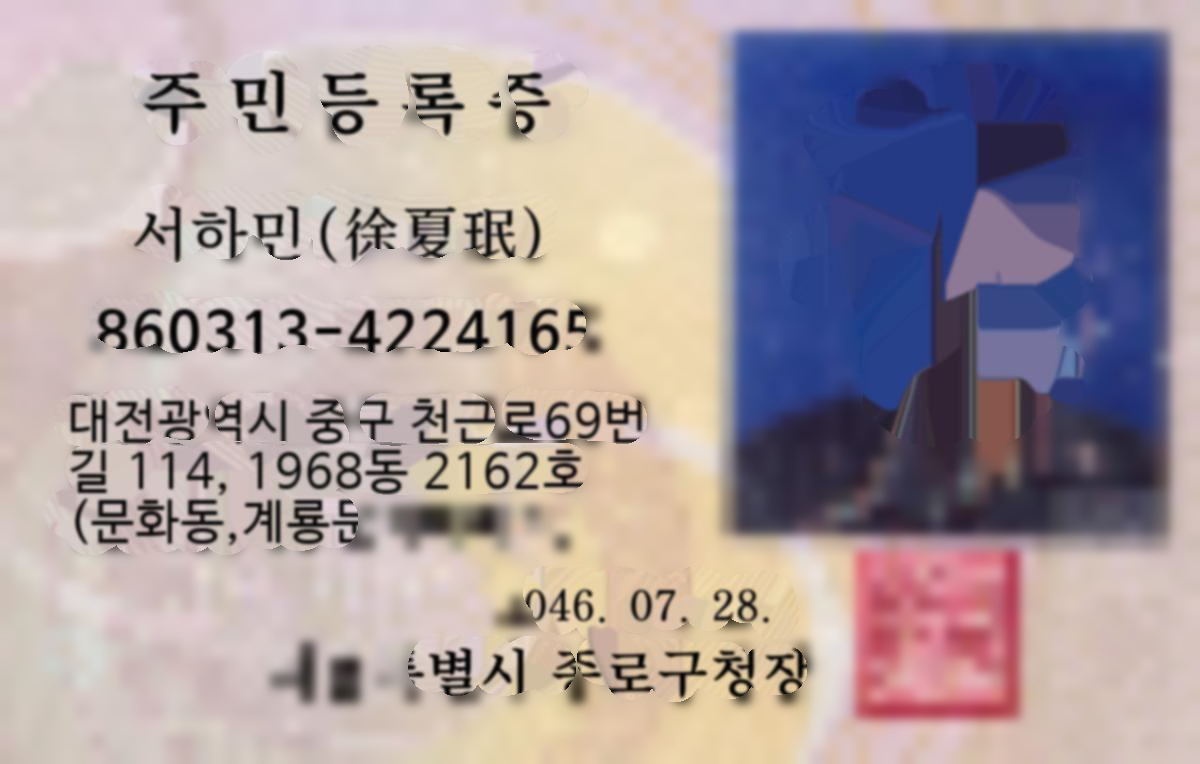
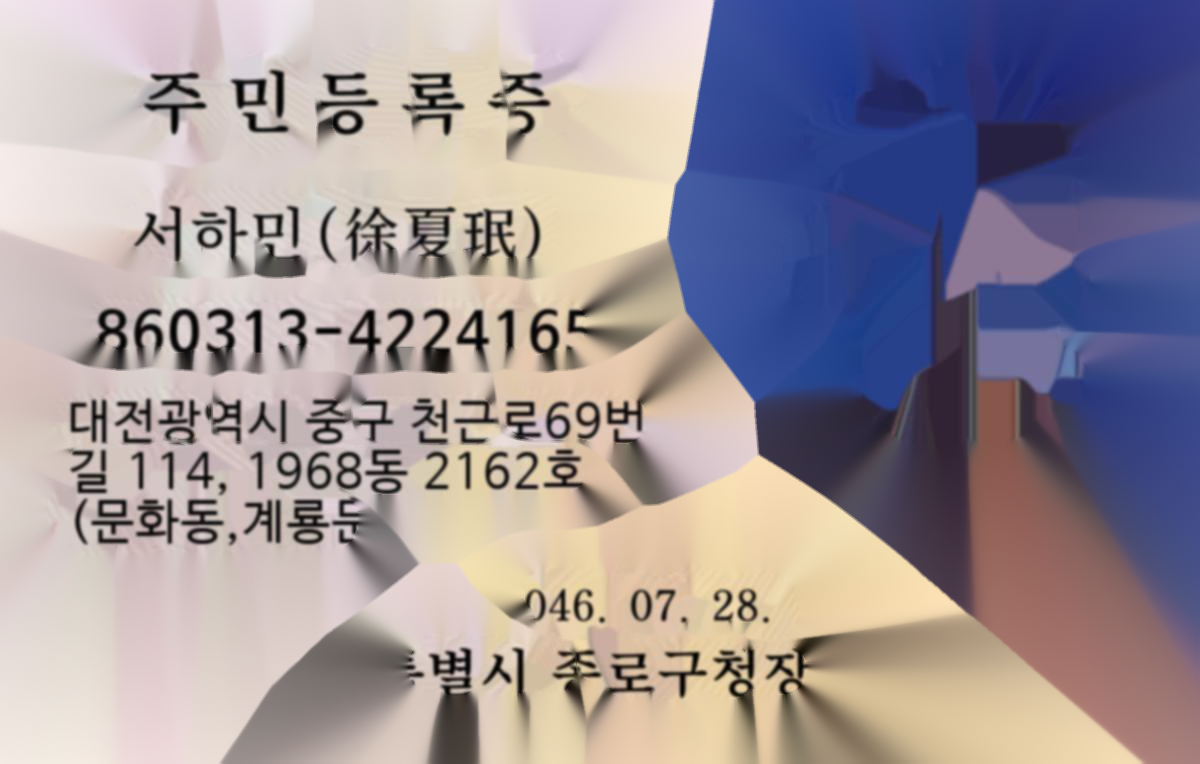
update

diff --git a/app/models/generate_idcard_template.py b/app/models/generate_idcard_template.py
@@ -1,59 +1,163 @@
 import os
 import cv2
 import numpy as np
-from pyinpaint import Inpaint
+import logging
+from typing import Tuple, Optional
+from pathlib import Path
+
+# 로깅 설정
+logging.basicConfig(level=logging.INFO)
+logger = logging.getLogger(__name__)
 
 class IDCardTemplateGenerator:
-    def generate_template(self, original_path, mask_path, output_path):
-        """신분증 템플릿 생성"""
+    def __init__(self, inpaint_radius: int = 3, inpaint_method: str = 'telea'):
+        """
+        신분증 템플릿 생성기 초기화
+        
+        Args:
+            inpaint_radius: 인페인팅 반경
+            inpaint_method: 인페인팅 방법 ('telea' 또는 'ns')
+        """
+        self.inpaint_radius = inpaint_radius
+        self.inpaint_method = inpaint_method
+        self.inpaint_flag = cv2.INPAINT_TELEA if inpaint_method == 'telea' else cv2.INPAINT_NS
+        
+    def generate_template(self, original_path: str, mask_path: str, output_path: str) -> np.ndarray:
+        """
+        신분증 템플릿 생성
+        
+        Args:
+            original_path: 원본 이미지 경로
+            mask_path: 마스크 이미지 경로
+            output_path: 출력 이미지 경로
+            
+        Returns:
+            생성된 템플릿 이미지 (numpy array)
+        """
         try:
-            print(f"✅ 처리 시작...")
-            print(f"원본 이미지: {original_path}")
-            print(f"마스크 이미지: {mask_path}")
+            logger.info(f"템플릿 생성 시작...")
+            logger.info(f"원본 이미지: {original_path}")
+            logger.info(f"마스크 이미지: {mask_path}")
             
-            # 1. 이미지 로드 및 전처리
-            original_img = cv2.imread(original_path)
-            mask_img = cv2.imread(mask_path, cv2.IMREAD_GRAYSCALE)  # 그레이스케일로 로드
+            # 파일 존재 확인
+            self._validate_input_files(original_path, mask_path)
             
-            if original_img is None or mask_img is None:
-                raise FileNotFoundError("❌ 이미지 로드 실패")
+            # 이미지 로드 및 전처리
+            original = self._load_and_preprocess_image(original_path)
+            mask = self._load_and_preprocess_mask(mask_path)
             
-            # 채널 수 확인 및 조정
-            if original_img.shape[2] == 4:  # RGBA 이미지인 경우
-                original_img = cv2.cvtColor(original_img, cv2.COLOR_BGRA2BGR)
+            # 이미지 크기 일치 확인
+            original, mask = self._ensure_same_size(original, mask)
             
-            # 임시 파일로 저장
-            temp_original = "temp_original.png"
-            temp_mask = "temp_mask.png"
+            # 인페인팅 수행
+            result = self._perform_inpainting(original, mask)
             
-            cv2.imwrite(temp_original, original_img)
-            cv2.imwrite(temp_mask, mask_img)
+            # 결과 저장
+            self._save_result(result, output_path)
             
-            # 2. Inpainting 수행
-            inpainter = Inpaint(temp_original, temp_mask)
-            inpainted_img = inpainter()
-            print("✅ Inpainting 완료")
-            
-            # 3. 결과 이미지 후처리
-            result_img = inpainted_img * 255.0
-            result_img = result_img.astype('uint8')
-            result_img = cv2.cvtColor(result_img, cv2.COLOR_BGR2RGB)
-            
-            # 4. 결과 저장
-            cv2.imwrite(output_path, result_img)
-            print(f"✅ 결과 저장 완료: {output_path}")
-            
-            # 5. 임시 파일 삭제
-            os.remove(temp_original)
-            os.remove(temp_mask)
-            
-            return result_img
+            logger.info("✅ 템플릿 생성 완료!")
+            return result
             
         except Exception as e:
-            print(f"❌ 에러 발생: {str(e)}")
-            # 임시 파일 정리
-            if os.path.exists("temp_original.png"):
-                os.remove("temp_original.png")
-            if os.path.exists("temp_mask.png"):
-                os.remove("temp_mask.png")
-            raise 
+            logger.error(f"❌ 템플릿 생성 중 오류 발생: {str(e)}")
+            raise
+    
+    def _validate_input_files(self, original_path: str, mask_path: str) -> None:
+        """입력 파일들의 유효성 검증"""
+        if not Path(original_path).exists():
+            raise FileNotFoundError(f"원본 이미지를 찾을 수 없습니다: {original_path}")
+        if not Path(mask_path).exists():
+            raise FileNotFoundError(f"마스크 이미지를 찾을 수 없습니다: {mask_path}")
+    
+    def _load_and_preprocess_image(self, image_path: str) -> np.ndarray:
+        """원본 이미지 로드 및 전처리"""
+        image = cv2.imread(image_path, cv2.IMREAD_UNCHANGED)
+        if image is None:
+            raise ValueError(f"이미지를 로드할 수 없습니다: {image_path}")
+        
+        logger.info(f"원본 이미지 크기: {image.shape}")
+        
+        # RGBA -> RGB 변환
+        if len(image.shape) == 3 and image.shape[2] == 4:
+            logger.info("RGBA -> RGB 변환 중...")
+            image = cv2.cvtColor(image, cv2.COLOR_RGBA2RGB)
+        
+        return image
+    
+    def _load_and_preprocess_mask(self, mask_path: str) -> np.ndarray:
+        """마스크 이미지 로드 및 전처리"""
+        mask = cv2.imread(mask_path)
+        if mask is None:
+            raise ValueError(f"마스크 이미지를 로드할 수 없습니다: {mask_path}")
+        
+        logger.info(f"마스크 이미지 크기: {mask.shape}")
+        
+        # 그레이스케일 변환
+        if len(mask.shape) == 3:
+            logger.info("마스크를 그레이스케일로 변환 중...")
+            mask = cv2.cvtColor(mask, cv2.COLOR_BGR2GRAY)
+        
+        return mask
+    
+    def _ensure_same_size(self, original: np.ndarray, mask: np.ndarray) -> Tuple[np.ndarray, np.ndarray]:
+        """원본과 마스크 이미지 크기 일치"""
+        if original.shape[:2] != mask.shape[:2]:
+            logger.warning("이미지와 마스크 크기가 다릅니다. 마스크를 원본 크기로 조정합니다.")
+            mask = cv2.resize(mask, (original.shape[1], original.shape[0]))
+        
+        return original, mask
+    
+    def _perform_inpainting(self, original: np.ndarray, mask: np.ndarray) -> np.ndarray:
+        """인페인팅 수행"""
+        logger.info(f"인페인팅 시작 (방법: {self.inpaint_method}, 반경: {self.inpaint_radius})")
+        
+        # 마스크 이진화
+        _, binary_mask = cv2.threshold(mask, 127, 255, cv2.THRESH_BINARY)
+        
+        # 인페인팅 수행
+        result = cv2.inpaint(original, binary_mask, self.inpaint_radius, self.inpaint_flag)
+        
+        return result
+    
+    def _save_result(self, result: np.ndarray, output_path: str) -> None:
+        """결과 이미지 저장"""
+        # 출력 디렉토리 생성
+        output_dir = Path(output_path).parent
+        output_dir.mkdir(parents=True, exist_ok=True)
+        
+        # 이미지 저장
+        success = cv2.imwrite(output_path, result)
+        if not success:
+            raise RuntimeError(f"결과 이미지 저장 실패: {output_path}")
+        
+        logger.info(f"✅ 결과 저장 완료: {output_path}")
+    
+    def get_inpainting_quality_score(self, original: np.ndarray, result: np.ndarray, mask: np.ndarray) -> float:
+        """인페인팅 품질 점수 계산 (0-1 사이)"""
+        try:
+            # 마스크 영역에서의 원본과 결과 차이 계산
+            mask_area = mask > 127
+            
+            if not np.any(mask_area):
+                return 1.0  # 마스크가 없으면 완벽한 점수
+            
+            # 구조적 유사성 지수 계산 (간단한 버전)
+            original_masked = original[mask_area]
+            result_masked = result[mask_area]
+            
+            # 표준편차 기반 품질 점수
+            std_original = np.std(original_masked)
+            std_result = np.std(result_masked)
+            
+            # 0-1 사이로 정규화
+            quality_score = min(1.0, std_result / (std_original + 1e-8))
+            
+            return quality_score
+            
+        except Exception as e:
+            logger.warning(f"품질 점수 계산 중 오류: {str(e)}")
+            return 0.5  # 기본값 반환
+
+    def visualize_results(self, original, mask, result):
+        # 결과 시각화 코드는 그대로 유지
+        pass 

diff --git a/app/inpaint_demo.py b/app/inpaint_demo.py
@@ -1,0 +1,78 @@
+import os
+import cv2
+import numpy as np
+from pyinpaint import Inpaint
+
+# 현재 디렉토리 기준 상대 경로 설정
+current_dir = os.path.dirname(os.path.abspath(__file__))
+data_dir = os.path.join(current_dir, 'dataset')
+
+# 원본 신분증 이미지
+img_path = os.path.join(data_dir, 'idcard_original.png')
+# 마스킹 신분증 이미지
+mask_path = os.path.join(data_dir, 'idcard_mask.png')
+
+# 출력 파일 경로
+output_dir = os.path.join(current_dir, 'output')
+os.makedirs(output_dir, exist_ok=True)  # 출력 디렉토리가 없으면 생성
+output_path = os.path.join(output_dir, 'idcard_template.png')
+
+# 이미지 로드 및 채널 확인
+img = cv2.imread(img_path)
+mask_img = cv2.imread(mask_path)
+
+print(f"원본 이미지 경로: {img_path}")
+print(f"마스크 이미지 경로: {mask_path}")
+
+# 채널 수 확인 및 조정
+if img is None:
+    print(f"❌ 오류: 원본 이미지를 로드할 수 없습니다: {img_path}")
+    exit(1)
+if mask_img is None:
+    print(f"❌ 오류: 마스크 이미지를 로드할 수 없습니다: {mask_path}")
+    exit(1)
+
+print(f"원본 이미지 형태: {img.shape}")
+print(f"마스크 이미지 형태: {mask_img.shape}")
+
+# 마스크 이미지가 3채널인 경우 1채널(그레이스케일)로 변환
+if len(mask_img.shape) == 3 and mask_img.shape[2] == 3:
+    print("마스크 이미지를 RGB에서 그레이스케일로 변환합니다.")
+    mask_img = cv2.cvtColor(mask_img, cv2.COLOR_BGR2GRAY)
+    # 변환된 마스크 임시 저장
+    temp_mask_path = os.path.join(data_dir, 'idcard_mask_temp.png')
+    cv2.imwrite(temp_mask_path, mask_img)
+    mask_path = temp_mask_path
+
+try:
+    # Inpainting 수행
+    print("인페인팅 처리 중...")
+    inpaint = Inpaint(img_path, mask_path)
+    inpainted_img = inpaint()
+    
+    # 결과 이미지 처리
+    result_img = inpainted_img * 255.0
+    result_img = result_img.astype('uint8')
+    result_img = cv2.cvtColor(result_img, cv2.COLOR_BGR2RGB)
+    
+    # 결과 저장
+    cv2.imwrite(output_path, result_img)
+    print(f"✅ 결과 저장 완료: {output_path}")
+    
+except Exception as e:
+    print(f"❌ pyinpaint 오류 발생: {str(e)}")
+    print("OpenCV 인페인팅으로 대체합니다...")
+    
+    # 마스크 이진화
+    _, binary_mask = cv2.threshold(mask_img, 127, 255, cv2.THRESH_BINARY)
+    
+    # OpenCV 인페인팅 (TELEA 알고리즘)
+    result_img = cv2.inpaint(img, binary_mask, inpaintRadius=3, flags=cv2.INPAINT_TELEA)
+    
+    # 결과 저장
+    cv2.imwrite(output_path, result_img)
+    print(f"✅ 결과 저장 완료: {output_path}")
+
+# 임시 파일 삭제
+if os.path.exists(os.path.join(data_dir, 'idcard_mask_temp.png')):
+    os.remove(os.path.join(data_dir, 'idcard_mask_temp.png')) 

diff --git a/app/test.py b/app/test.py
@@ -1,0 +1,21 @@
+import cv2
+import numpy as np
+import matplotlib.pyplot as plt
+import matplotlib.font_manager as fm
+
+# 한글 폰트 설정
+font_path = '/System/Library/Fonts/AppleSDGothicNeo.ttc'  # macOS 기본 한글 폰트
+font_prop = fm.FontProperties(fname=font_path)
+plt.rcParams['font.family'] = 'AppleGothic'  # macOS용 폰트 설정
+
+# 간단한 테스트 이미지 생성
+test_image = np.zeros((300, 300, 3), dtype=np.uint8)
+test_image[:100, :100] = [255, 0, 0]  # 빨간색 사각형
+test_image[100:200, 100:200] = [0, 255, 0]  # 녹색 사각형
+test_image[200:300, 200:300] = [0, 0, 255]  # 파란색 사각형
+
+# 이미지 표시
+plt.imshow(cv2.cvtColor(test_image, cv2.COLOR_BGR2RGB))
+plt.title('테스트 이미지', fontproperties=font_prop)
+plt.savefig('test_output.png')
+print("테스트 이미지가 생성되었습니다. 'test_output.png' 파일을 확인하세요.") 

diff --git a/app/main.py b/app/main.py
@@ -1,8 +1,8 @@
 import os
 import cv2
 import numpy as np
-from app.models.generate_idcard_template import IDCardTemplateGenerator
-from app.preprocess.image_preprocessing import ImagePreprocessor
+from models.generate_idcard_template import IDCardTemplateGenerator
+from preprocess.image_preprocessing import ImagePreprocessor
 
 def main():
     """메인 실행 함수"""
